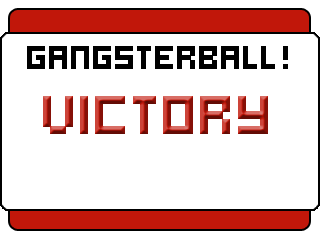
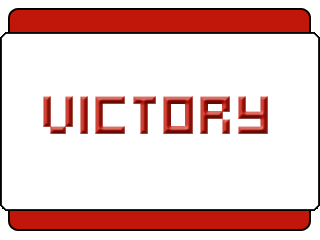
Made a test level, tweaked the victory image

diff --git a/Assets/Resources/ResourceSpawner.cs b/Assets/Resources/ResourceSpawner.cs
@@ -21,6 +21,8 @@ public class ResourceSpawner : MonoBehaviour
 	public List<GameObject> goodRes;
 	public List<GameObject> badRes;
 
+    public bool recyleStuff = false;
+
 	// Use this for initialization
 	void Start ()
 	{
@@ -119,8 +121,8 @@ public class ResourceSpawner : MonoBehaviour
 
 		if (o.GetComponent<Rigidbody>().mass >= 10)
 			o.GetComponent<Rigidbody>().mass = 10;
-
-		o.SetActive(true);
+        if(recyleStuff)
+		    o.SetActive(true);
 	}
 	void resetGame()
 	{

diff --git a/Assets/PlayerScript.cs b/Assets/PlayerScript.cs
@@ -185,7 +185,7 @@ public class PlayerScript : MonoBehaviour
 			{
 				//playerRigidbody.isKinematic = true;
 				//Resize the player
-				transform.localScale -= (collidedObject.transform.localScale * .5f);
+				transform.localScale -= (collidedObject.transform.localScale * .25f);
 				//Update internal scale variable for win calculation and such
 				playerScale = transform.localScale.x;
 				//Recycle the object

diff --git a/Assets/Resources/VictoryPoint.cs b/Assets/Resources/VictoryPoint.cs
@@ -31,7 +31,7 @@ public class VictoryPoint : MonoBehaviour {
 		{
 			Debug.Log("VICTORY!");
 			victory = true;
-			Application.LoadLevel(NextLevelName);
+			//Application.LoadLevel(NextLevelName);
 		}
 	}
 }

diff --git a/Assets/UI Assets/UIScore.cs b/Assets/UI Assets/UIScore.cs
@@ -19,6 +19,6 @@ public class UIScore : MonoBehaviour
 	void Update ()
 	{
 		score = (int)((Player.playerScale - 1)*100);
-		text.text = "Score: " + score;
+		text.text = "Size: " + score;
 	}
 }
